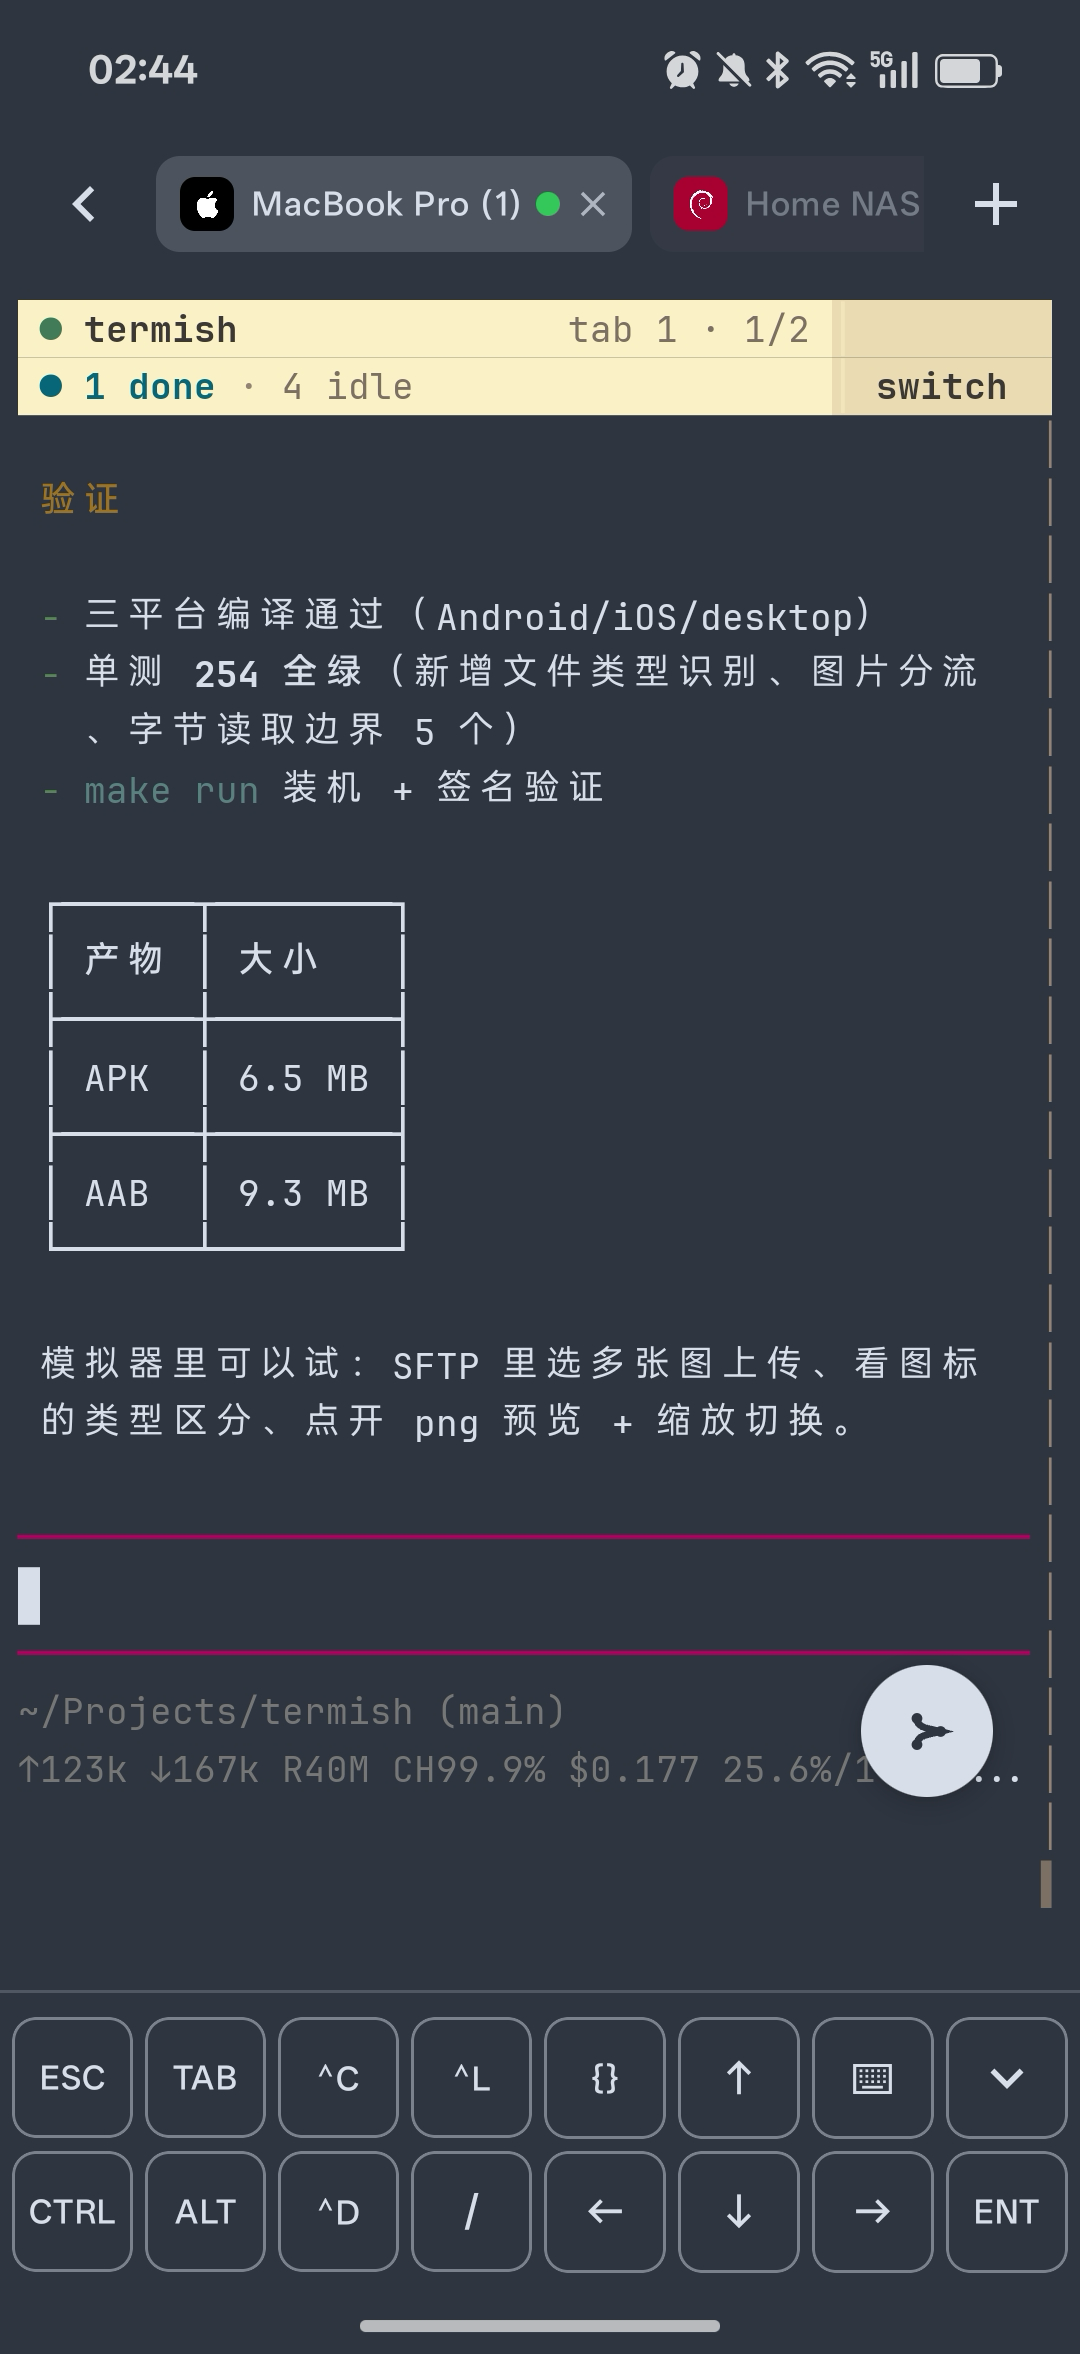
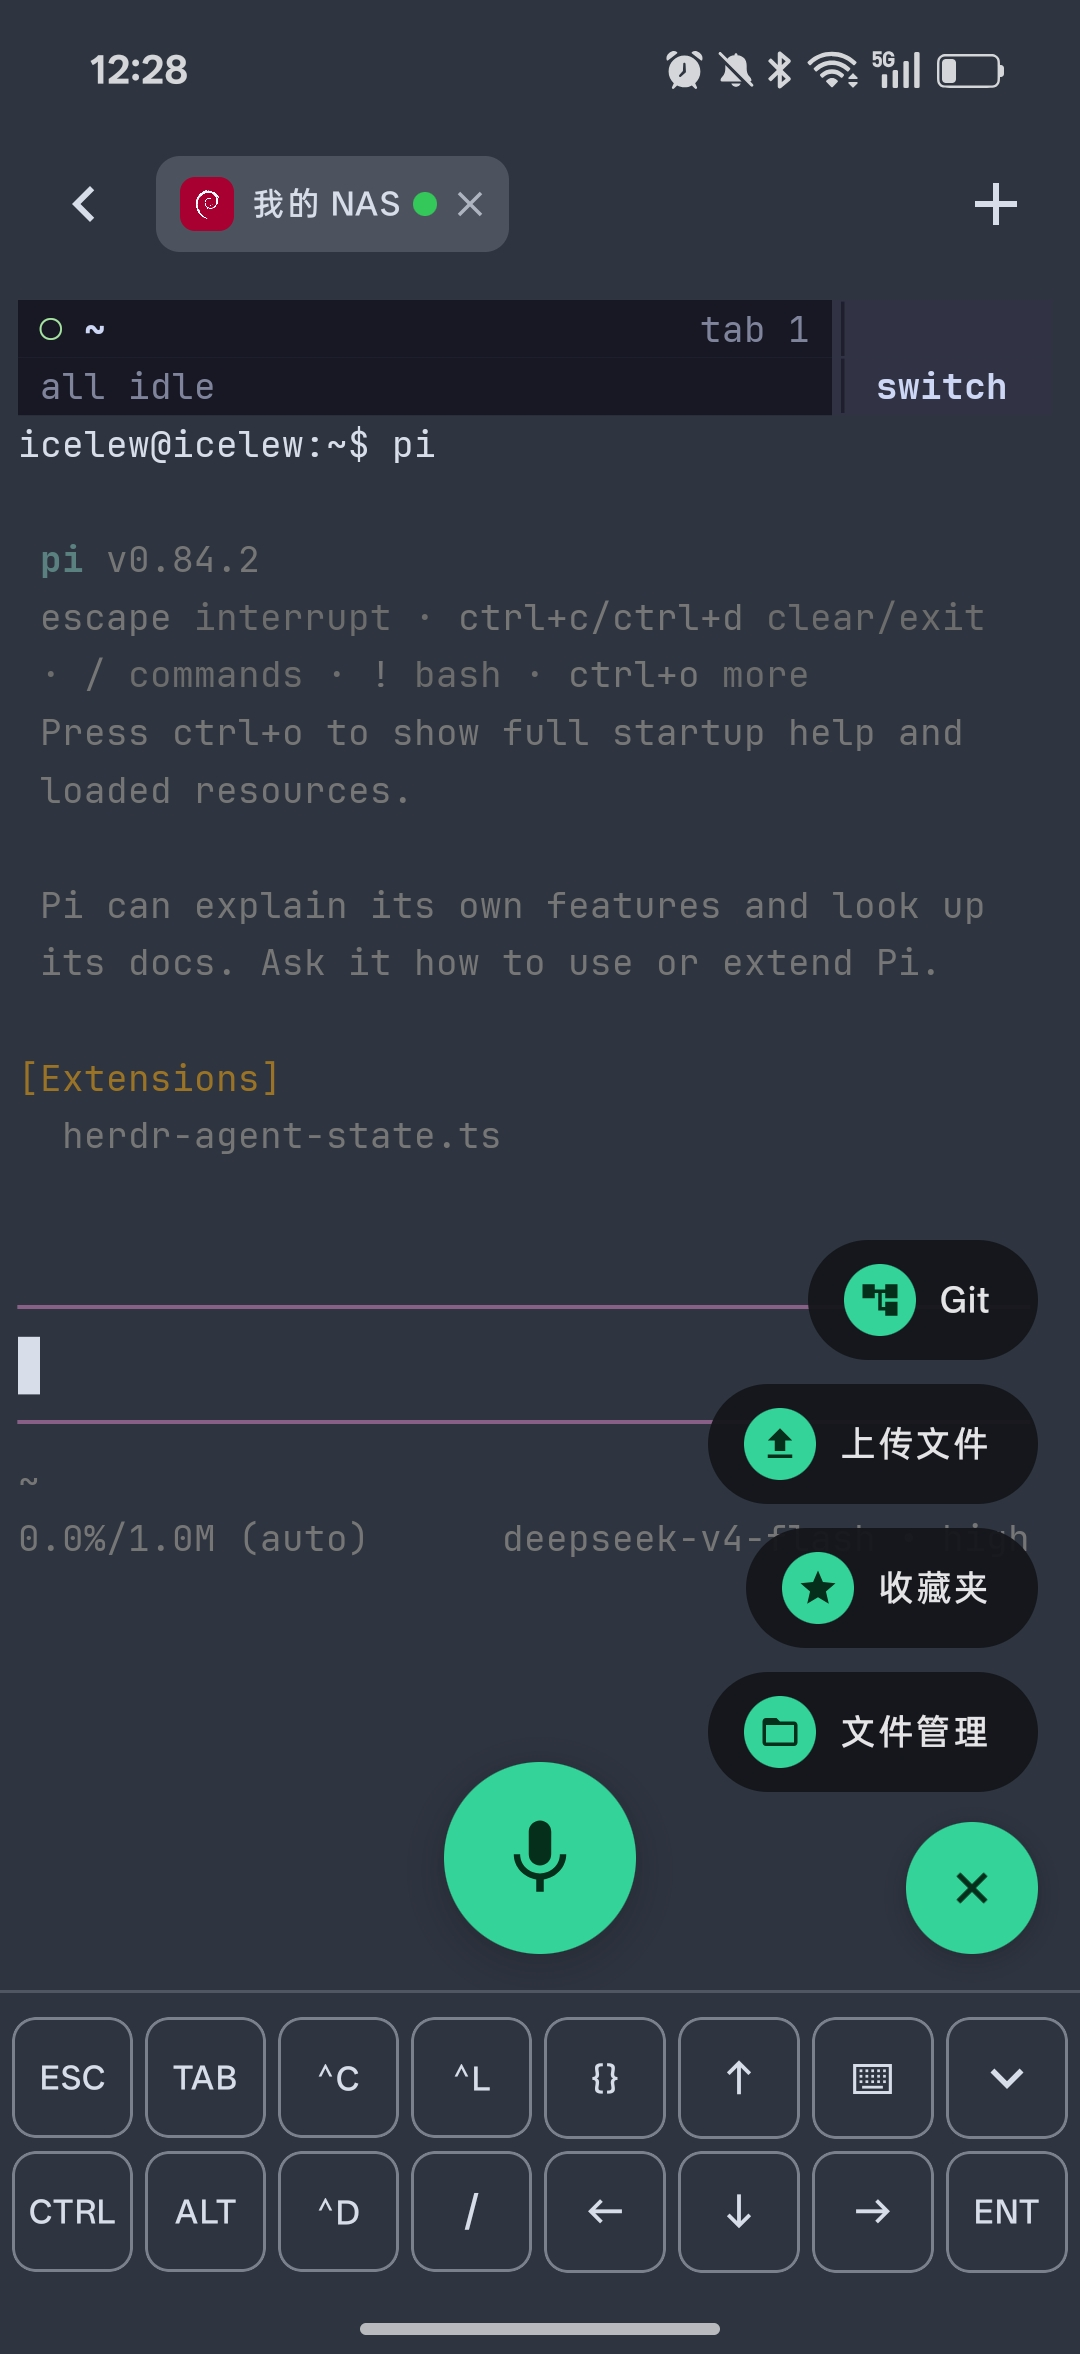
docs: 第4张截图换为终端工具菜单图（12-28-17），caption 同步

diff --git a/README.zh-CN.md b/README.zh-CN.md
@@ -18,7 +18,7 @@
   <img src="docs/screenshots/theme-zh.png" width="230" alt="终端主题" />
 </p>
 <p>
-  <img src="docs/screenshots/terminal-herdr-zh.png" width="230" alt="herdr TUI agent" />
+  <img src="docs/screenshots/terminal-herdr-zh.png" width="230" alt="终端工具菜单" />
   <img src="docs/screenshots/terminal-menu-zh.png" width="230" alt="终端工具菜单" />
   <img src="docs/screenshots/sftp-zh.png" width="230" alt="SFTP" />
 </p>
